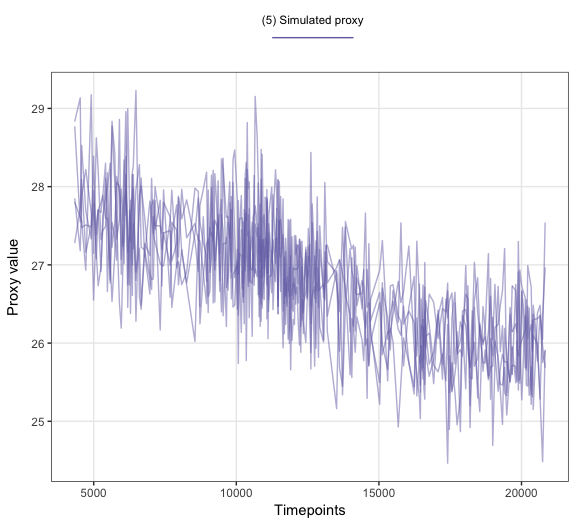
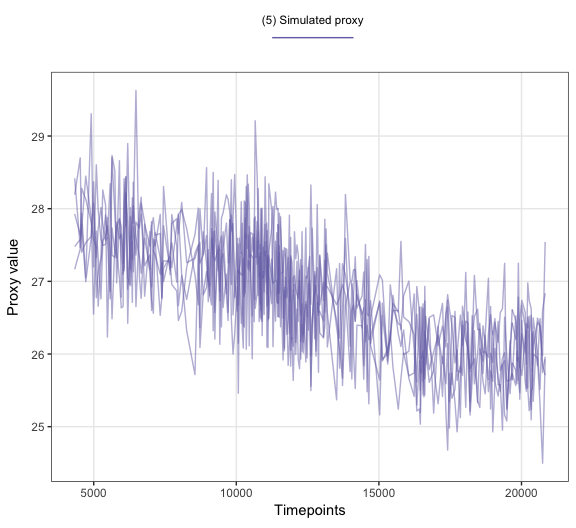
working version of ClimToProxyClim that takes a ts object for the input climate. Also uses new bioturbation function that convolves layer.width

diff --git a/readme.md b/readme.md
@@ -132,7 +132,12 @@ kable(head(N41.proxy), format = "markdown")
 set.seed(26052017)
 clim.in <- N41.t21k.climate[nrow(N41.t21k.climate):1,] - 273.15
 
-PFM <- ClimToProxyClim(clim.signal = clim.in,
+# The input climate signal should be a time series object
+# The Trace simulation runs to the year 1990 AD, therefore the start time for 
+# the input climate is -39 years BP
+clim.in <- ts(clim.in, start = -39)
+
+PFM <- ClimToProxyClim.ts(clim.signal = clim.in,
                        timepoints = round(N41.proxy$Published.age),
                        proxy.calibration.type = "identity",
                        seas.prod = N41.G.ruber.seasonality,
@@ -151,16 +156,16 @@ PFM$everything
 ## # A tibble: 9,725 x 9
 ##    timepoints replicate             stage    value           label
 ##         <dbl>     <dbl>             <chr>    <dbl>           <chr>
-##  1       4334         1 proxy.bt.sb.sampY 27.77735 (4) +Aliasing Y
-##  2       4527         1 proxy.bt.sb.sampY 27.71641 (4) +Aliasing Y
-##  3       4576         1 proxy.bt.sb.sampY 27.74539 (4) +Aliasing Y
-##  4       4721         1 proxy.bt.sb.sampY 27.68920 (4) +Aliasing Y
-##  5       4914         1 proxy.bt.sb.sampY 27.66205 (4) +Aliasing Y
-##  6       4994         1 proxy.bt.sb.sampY 27.66351 (4) +Aliasing Y
-##  7       5092         1 proxy.bt.sb.sampY 27.67081 (4) +Aliasing Y
-##  8       5156         1 proxy.bt.sb.sampY 27.65508 (4) +Aliasing Y
-##  9       5254         1 proxy.bt.sb.sampY 27.65605 (4) +Aliasing Y
-## 10       5318         1 proxy.bt.sb.sampY 27.62041 (4) +Aliasing Y
+##  1       4334         1 proxy.bt.sb.sampY 27.72916 (4) +Aliasing Y
+##  2       4527         1 proxy.bt.sb.sampY 27.69545 (4) +Aliasing Y
+##  3       4576         1 proxy.bt.sb.sampY 27.71834 (4) +Aliasing Y
+##  4       4721         1 proxy.bt.sb.sampY 27.68866 (4) +Aliasing Y
+##  5       4914         1 proxy.bt.sb.sampY 27.72985 (4) +Aliasing Y
+##  6       4994         1 proxy.bt.sb.sampY 27.63903 (4) +Aliasing Y
+##  7       5092         1 proxy.bt.sb.sampY 27.63409 (4) +Aliasing Y
+##  8       5156         1 proxy.bt.sb.sampY 27.61887 (4) +Aliasing Y
+##  9       5254         1 proxy.bt.sb.sampY 27.69607 (4) +Aliasing Y
+## 10       5318         1 proxy.bt.sb.sampY 27.62952 (4) +Aliasing Y
 ## # ... with 9,715 more rows, and 4 more variables: description <chr>,
 ## #   plot.order <dbl>, plotting.colour <chr>, plotting.alpha <dbl>
 ```
